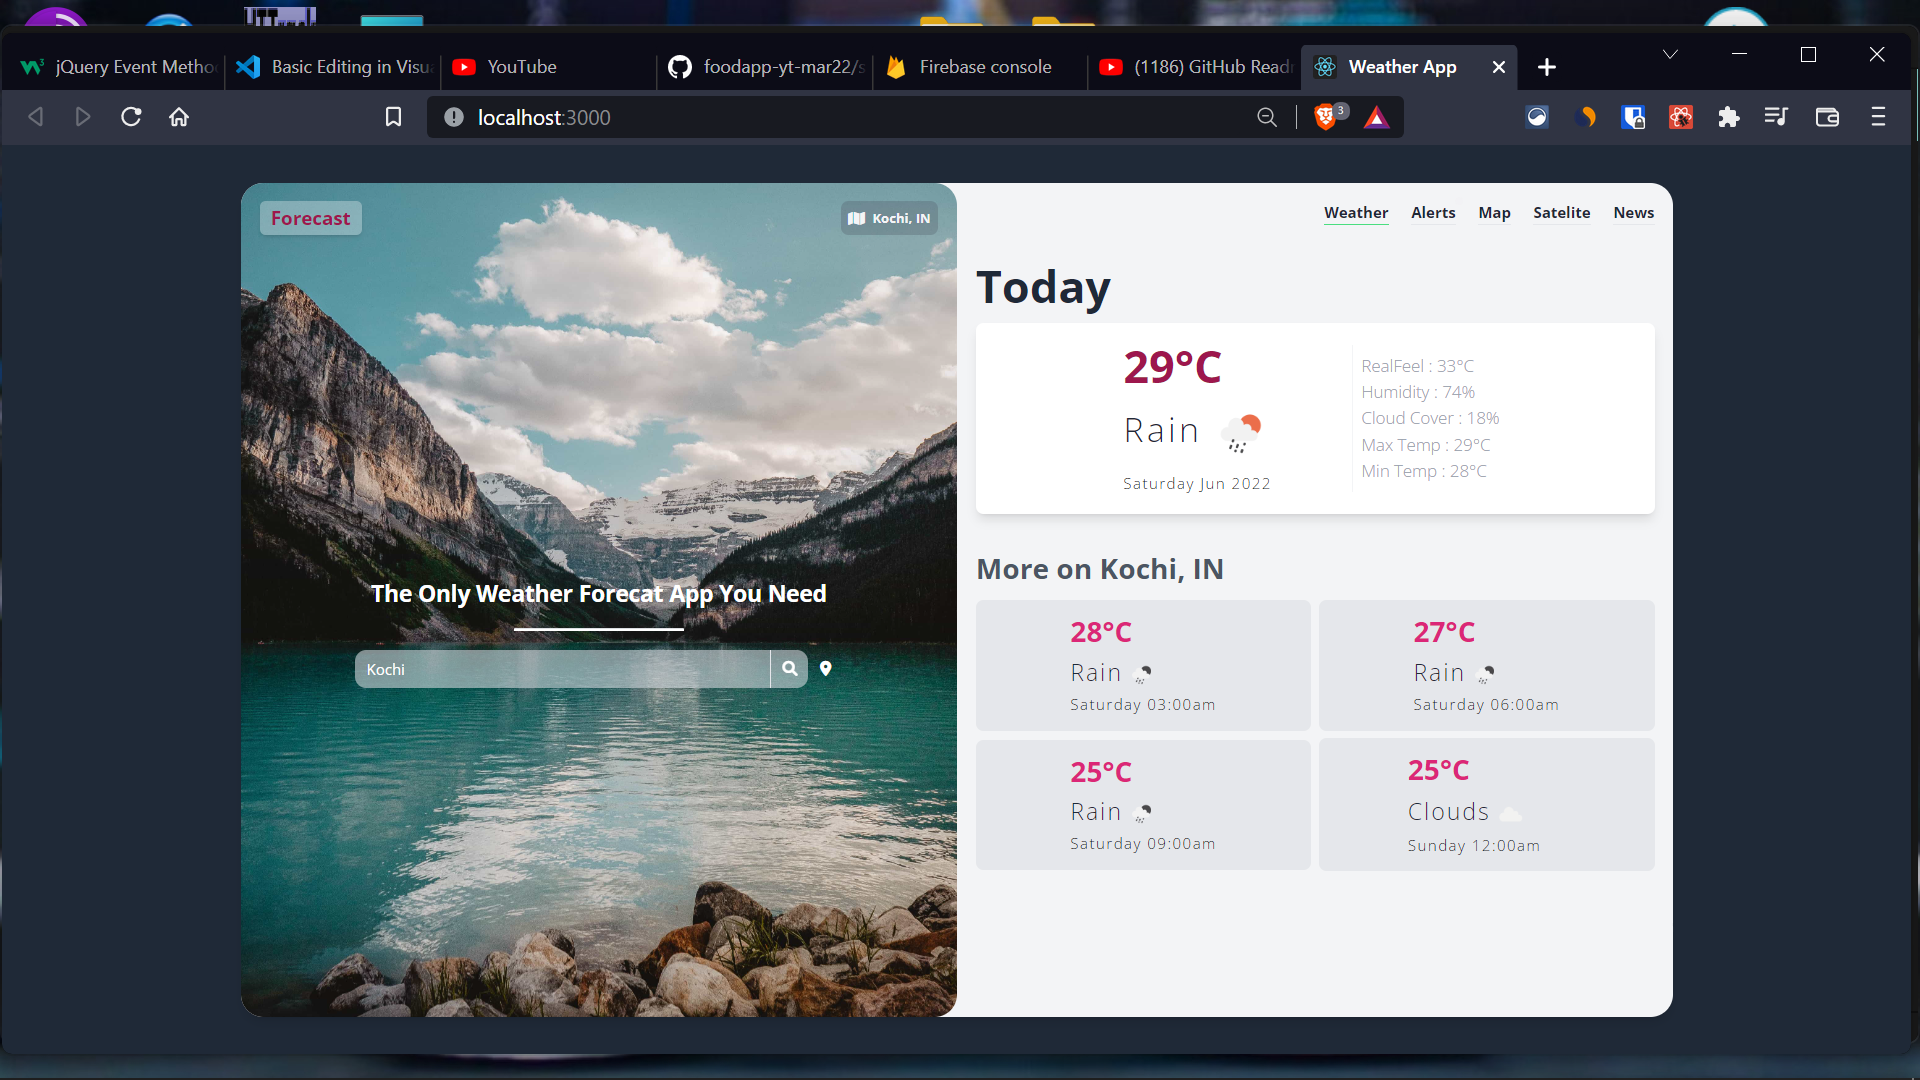
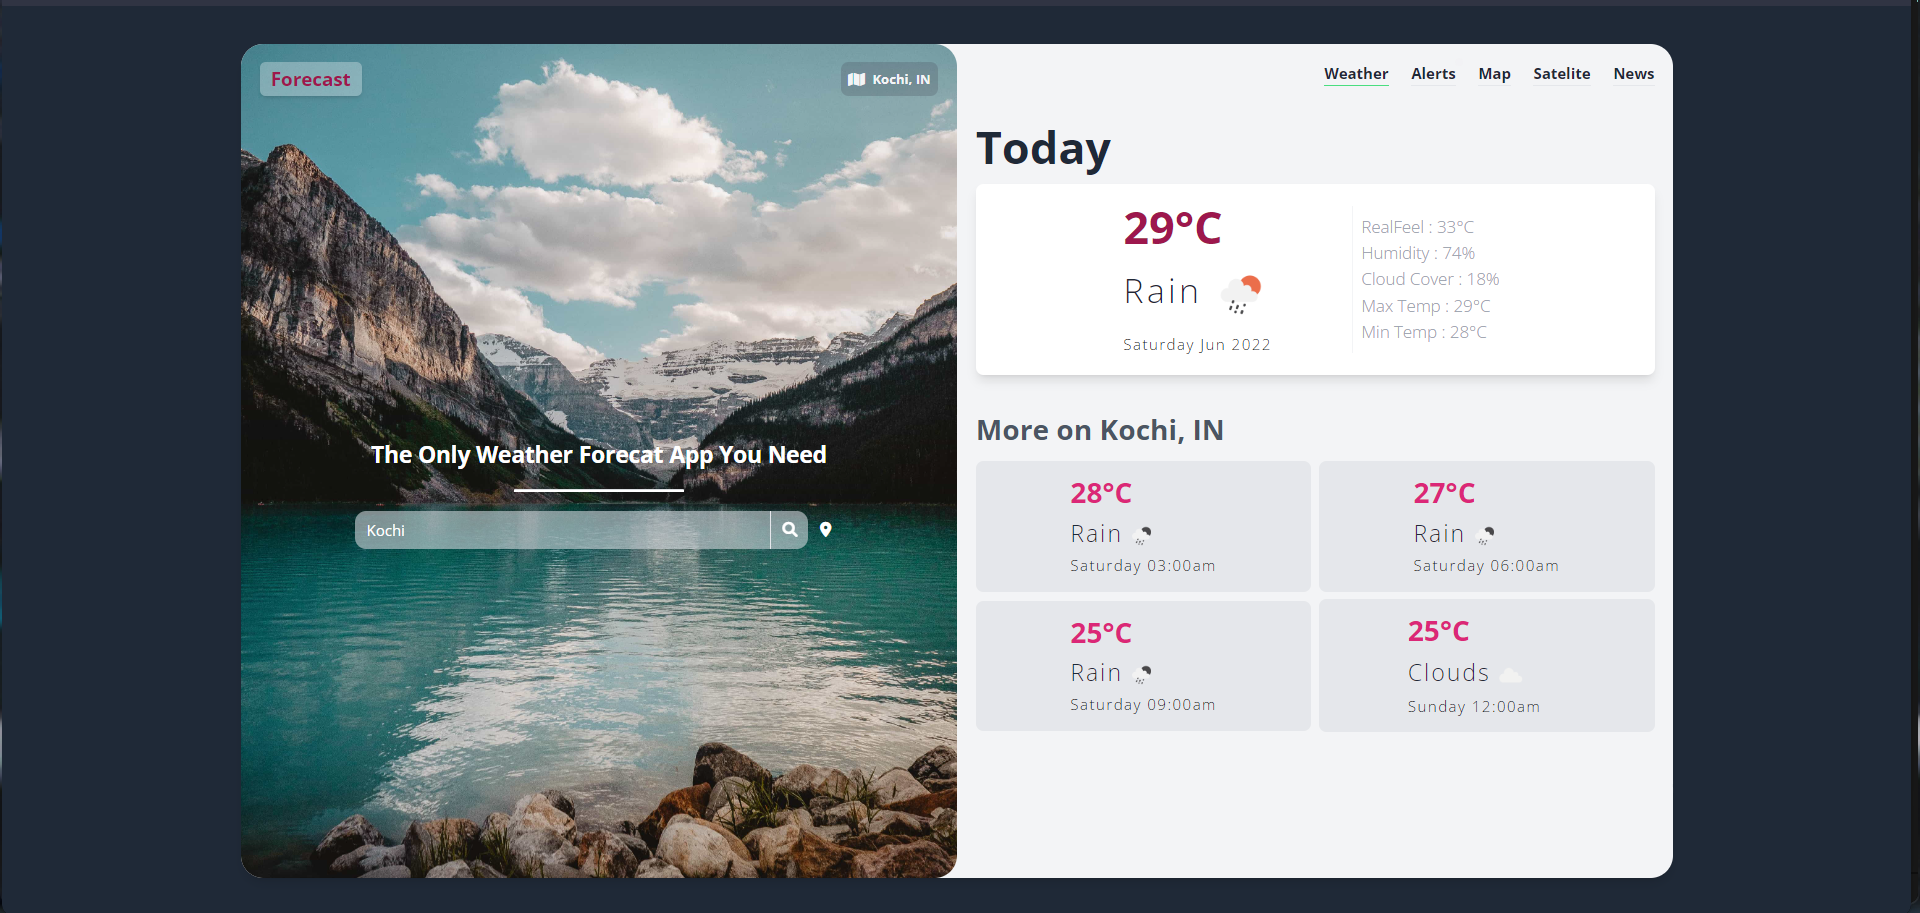
Update : change Screenshot

diff --git a/README.md b/README.md
@@ -1,4 +1,4 @@
-![](Assets/Screenshot.png)
+![](src/Assets/Screenshot.png)
 
 # Getting Started with Create React App
 
